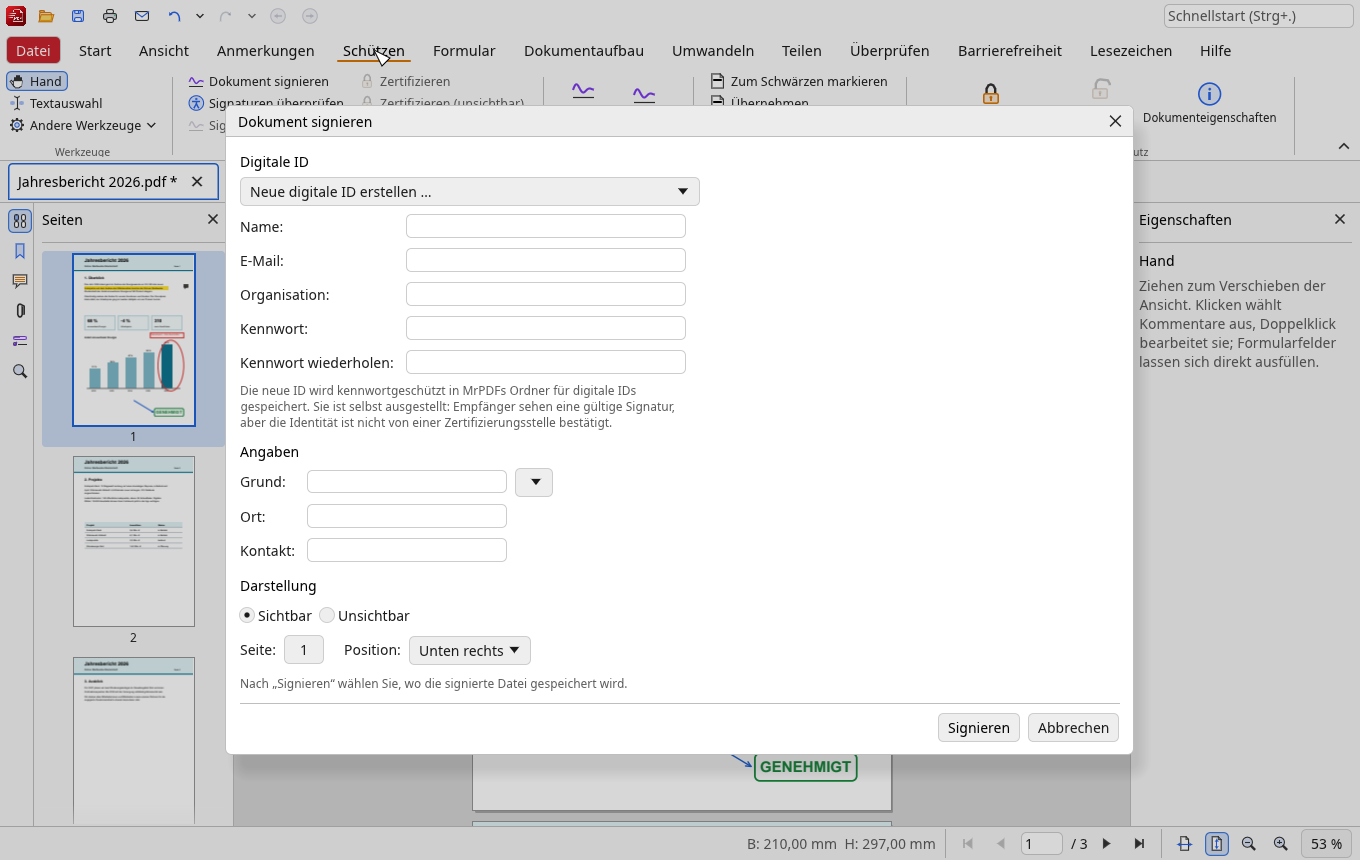
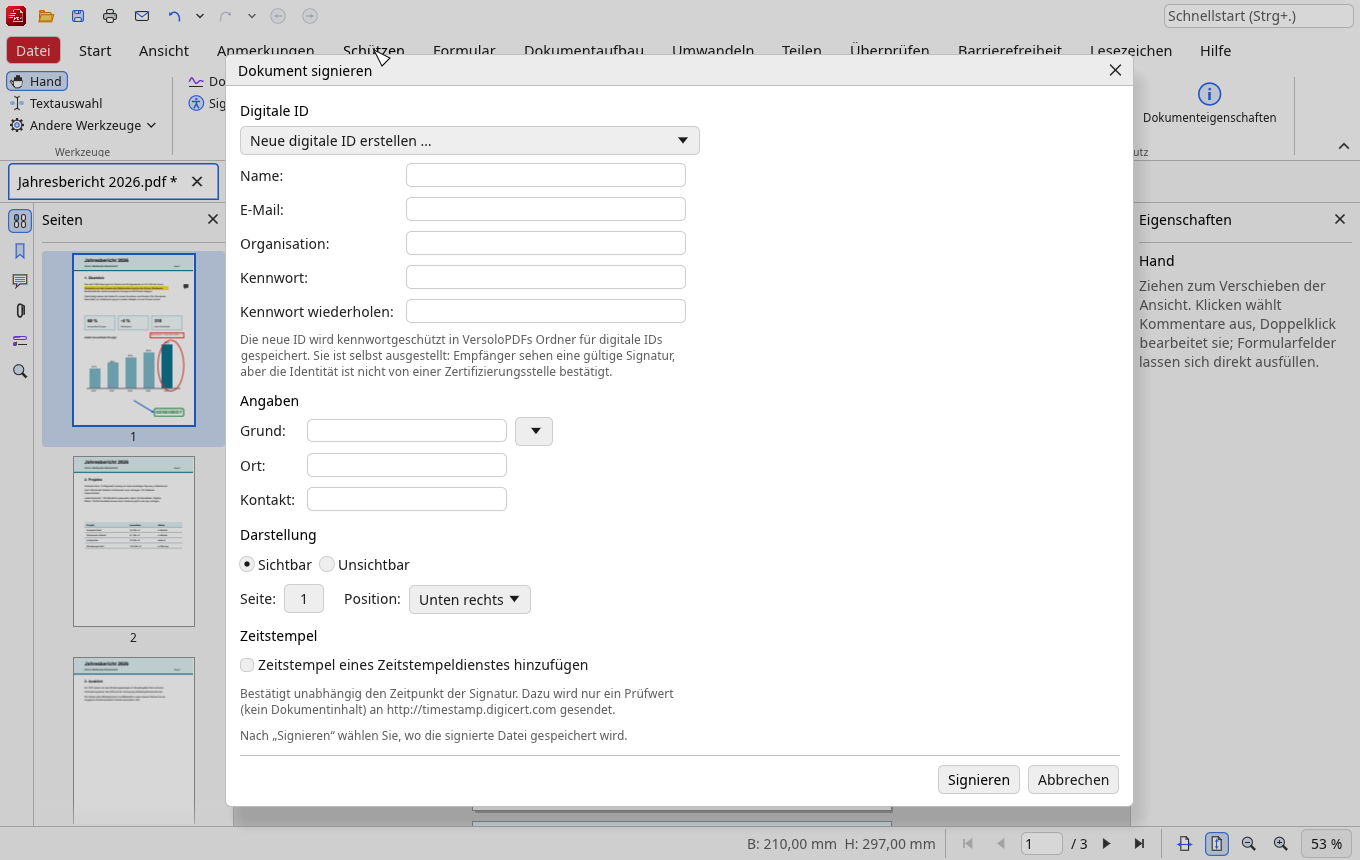
VersoloPDF 1.1.0: new name, certify, time stamps, QR code field, layers
- New name VersoloPDF (formerly MrPDF): crate, program, package, web site;
  data of the old name (settings, digital IDs, recovery copies, log) are
  moved over at the first start, old session files still open.
- Certify (DocMDP level 1-3, only as the first signature) and time stamps
  (RFC 3161): signature time stamps as unsigned attribute, document time
  stamps (ETSI.RFC3161), checked in "Check signatures"; time stamp
  authority and default in Settings > Signatures. Checked against a real
  authority (ignored test).
- Barcode form field: own QR code encoder (byte mode, level M, versions
  1-40), checked against the specification's Reed-Solomon example and an
  independent reader.
- Layers pane: lists optional content groups and switches them in the
  default view (undoable); read once per file state.
- Snapping to page objects, splitting pages at guides, read aloud in the
  Accessibility tab.
- Greyed-out placeholders and settings categories without function
  removed, together with the placeholder mechanism.
- Tests for all of it; web site pictures and texts updated.

Changed region(s): [[0.1544, 0.0605, 0.8338, 0.9372]]

diff --git a/index.html b/index.html
@@ -3,11 +3,11 @@
 <head>
 <meta charset="utf-8">
 <meta name="viewport" content="width=device-width, initial-scale=1">
-<title>MrPDF – der freie PDF-Editor</title>
-<meta name="description" content="MrPDF: freier, quelloffener PDF-Editor mit vertrautem Menüband. Ansehen, kommentieren, ausfüllen, signieren, organisieren – ohne Konto, ohne Cloud.">
-<meta property="og:title" content="MrPDF – der freie PDF-Editor">
+<title>VersoloPDF – der freie PDF-Editor</title>
+<meta name="description" content="VersoloPDF: freier, quelloffener PDF-Editor mit vertrautem Menüband. Ansehen, kommentieren, ausfüllen, signieren, organisieren – ohne Konto, ohne Cloud.">
+<meta property="og:title" content="VersoloPDF – der freie PDF-Editor">
 <meta property="og:description" content="Ansehen, kommentieren, ausfüllen, signieren und organisieren – quelloffen, ohne Konto, ohne Cloud.">
-<meta property="og:image" content="https://mrmarkus42.github.io/MrPDF/img/hero.png">
+<meta property="og:image" content="https://mrmarkus42.github.io/VersoloPDF/img/hero.png">
 <link rel="icon" type="image/png" href="img/logo.png">
 <style>
 :root {
@@ -139,12 +139,12 @@ footer a { color: var(--muted); }
 
 <nav>
   <div class="wrap">
-    <a class="logo" href="#top"><img src="img/logo.png" alt="">MrPDF</a>
+    <a class="logo" href="#top"><img src="img/logo.png" alt="">VersoloPDF</a>
     <div class="links">
       <a class="opt" href="#funktionen"><span lang="de">Funktionen</span><span lang="en">Features</span></a>
       <a class="opt" href="#download">Download</a>
       <a class="opt" href="#fragen"><span lang="de">Fragen</span><span lang="en">FAQ</span></a>
-      <a href="https://github.com/MrMarkus42/MrPDF">GitHub</a>
+      <a href="https://github.com/MrMarkus42/VersoloPDF">GitHub</a>
       <button class="lang" id="lang" type="button" aria-label="Sprache wechseln / switch language">EN</button>
     </div>
   </div>
@@ -154,25 +154,25 @@ footer a { color: var(--muted); }
   <div class="wrap">
     <h1><span lang="de">PDFs bearbeiten.<br><em>Frei.</em> Lokal. Vertraut.</span><span lang="en">Edit PDFs.<br><em>Free.</em> Local. Familiar.</span></h1>
     <p class="lead">
-      <span lang="de">MrPDF ist ein quelloffener PDF-Editor mit dem Menüband, das Sie aus Office-Programmen kennen. Ansehen, kommentieren, ausfüllen, signieren und Seiten organisieren – ohne Konto, ohne Abo, ohne Cloud.</span>
-      <span lang="en">MrPDF is an open-source PDF editor with the ribbon you know from office programs. View, comment, fill in, sign and organise pages – no account, no subscription, no cloud.</span>
+      <span lang="de">VersoloPDF ist ein quelloffener PDF-Editor mit dem Menüband, das Sie aus Office-Programmen kennen. Ansehen, kommentieren, ausfüllen, signieren und Seiten organisieren – ohne Konto, ohne Abo, ohne Cloud.</span>
+      <span lang="en">VersoloPDF is an open-source PDF editor with the ribbon you know from office programs. View, comment, fill in, sign and organise pages – no account, no subscription, no cloud.</span>
     </p>
     <div class="buttons">
-      <a class="btn primary" href="https://github.com/MrMarkus42/MrPDF/releases/latest">
+      <a class="btn primary" href="https://github.com/MrMarkus42/VersoloPDF/releases/latest">
         <svg viewBox="0 0 24 24" fill="none" stroke="currentColor" stroke-width="2" stroke-linecap="round" stroke-linejoin="round"><path d="M12 3v12m0 0l-5-5m5 5l5-5M4 19h16"/></svg>
         <span lang="de">Für Windows herunterladen</span><span lang="en">Download for Windows</span>
       </a>
-      <a class="btn ghost" href="https://github.com/MrMarkus42/MrPDF">
+      <a class="btn ghost" href="https://github.com/MrMarkus42/VersoloPDF">
         <span lang="de">Quellcode ansehen</span><span lang="en">View the source</span>
       </a>
     </div>
     <p class="note">
-      <span lang="de">Version 1.0 · Windows 10 und 11 (64 Bit) · keine Installation nötig · MIT/Apache-2.0</span>
-      <span lang="en">Version 1.0 · Windows 10 and 11 (64-bit) · no installation needed · MIT/Apache-2.0</span>
+      <span lang="de">Version 1.1 · Windows 10 und 11 (64 Bit) · keine Installation nötig · MIT/Apache-2.0</span>
+      <span lang="en">Version 1.1 · Windows 10 and 11 (64-bit) · no installation needed · MIT/Apache-2.0</span>
     </p>
     <div class="shot">
       <div class="bar"><i></i><i></i><i></i></div>
-      <img src="img/hero.png" width="1360" height="860" alt="MrPDF mit einem Jahresbericht, Kommentaren und dem Menüband">
+      <img src="img/hero.png" width="1360" height="860" alt="VersoloPDF mit einem Jahresbericht, Kommentaren und dem Menüband">
     </div>
   </div>
 </header>
@@ -192,10 +192,10 @@ footer a { color: var(--muted); }
         <p><span lang="de">Markieren, Notizen, Textfelder, Formen, Wolken, Freihand, Messen, Stempel – sichtbar in jedem PDF-Programm.</span><span lang="en">Highlights, notes, text boxes, shapes, clouds, freehand, measuring, stamps – visible in every PDF viewer.</span></p></div>
       <div class="card"><div class="icon"><svg viewBox="0 0 24 24"><rect x="4" y="3" width="16" height="18" rx="2"/><path d="M8 8h8M8 12h8M8 16h4"/></svg></div>
         <h3><span lang="de">Formulare</span><span lang="en">Forms</span></h3>
-        <p><span lang="de">Ausfüllen und selbst gestalten: Text, Auswahl, Liste, Datum, Bild, Schaltfläche, Signatur – auch automatisch erkannt.</span><span lang="en">Fill in and design: text, choice, list, date, image, button and signature fields – even detected automatically.</span></p></div>
+        <p><span lang="de">Ausfüllen und selbst gestalten: Text, Auswahl, Liste, Datum, Bild, Schaltfläche, QR-Code, Signatur – auch automatisch erkannt.</span><span lang="en">Fill in and design: text, choice, list, date, image, button, QR code and signature fields – even detected automatically.</span></p></div>
       <div class="card"><div class="icon red"><svg viewBox="0 0 24 24"><path d="M3 17c3-1 4-6 6-6s1 5 3 5 3-4 5-4 2 2 4 2"/><path d="M3 21h18"/></svg></div>
         <h3><span lang="de">Signieren</span><span lang="en">Sign</span></h3>
-        <p><span lang="de">Digitale Signaturen mit eigener digitaler ID, sichtbar oder unsichtbar – und Signaturen anderer prüfen.</span><span lang="en">Digital signatures with your own digital ID, visible or invisible – and check the signatures of others.</span></p></div>
+        <p><span lang="de">Digitale Signaturen mit eigener digitaler ID, Zertifizieren und Zeitstempel – und Signaturen anderer prüfen.</span><span lang="en">Digital signatures with your own digital ID, certification and time stamps – and check the signatures of others.</span></p></div>
       <div class="card"><div class="icon"><svg viewBox="0 0 24 24"><rect x="3" y="3" width="8" height="10" rx="1"/><rect x="13" y="3" width="8" height="10" rx="1"/><path d="M7 17v4M17 17v4M4 21h16"/></svg></div>
         <h3><span lang="de">Seiten organisieren</span><span lang="en">Organise pages</span></h3>
         <p><span lang="de">Einfügen, löschen, drehen, zuschneiden, zusammenfügen, aufteilen, Wasserzeichen, Kopf- und Fußzeilen, Bates-Nummern.</span><span lang="en">Insert, delete, rotate, crop, merge, split, watermarks, headers and footers, Bates numbering.</span></p></div>
@@ -218,14 +218,14 @@ footer a { color: var(--muted); }
       <div class="txt">
         <div class="kicker"><span lang="de">Kommentieren</span><span lang="en">Commenting</span></div>
         <h3><span lang="de">Anmerkungen, die überall gleich aussehen</span><span lang="en">Comments that look the same everywhere</span></h3>
-        <p><span lang="de">Markieren Sie Text, setzen Sie Notizen, Pfeile und Stempel. MrPDF schreibt zu jeder Anmerkung ihr eigenes Aussehen in die Datei – Ihre Kollegen sehen in jedem PDF-Programm genau das, was Sie sehen.</span><span lang="en">Highlight text, add notes, arrows and stamps. MrPDF writes each comment's own appearance into the file – your colleagues see exactly what you see, in any PDF viewer.</span></p>
+        <p><span lang="de">Markieren Sie Text, setzen Sie Notizen, Pfeile und Stempel. VersoloPDF schreibt zu jeder Anmerkung ihr eigenes Aussehen in die Datei – Ihre Kollegen sehen in jedem PDF-Programm genau das, was Sie sehen.</span><span lang="en">Highlight text, add notes, arrows and stamps. VersoloPDF writes each comment's own appearance into the file – your colleagues see exactly what you see, in any PDF viewer.</span></p>
         <ul>
           <li><span lang="de">Stilvorlagen und eigene Stempel</span><span lang="en">Style presets and your own stamps</span></li>
           <li><span lang="de">Kommentarliste, Zusammenfassung als PDF</span><span lang="en">Comment list, summary as PDF</span></li>
           <li><span lang="de">Austausch per XFDF</span><span lang="en">Exchange via XFDF</span></li>
         </ul>
       </div>
-      <div class="pic"><img src="img/comments.png" width="1360" height="860" loading="lazy" alt="Kommentare in MrPDF"></div>
+      <div class="pic"><img src="img/comments.png" width="1360" height="860" loading="lazy" alt="Kommentare in VersoloPDF"></div>
     </div>
 
     <div class="feature flip">
@@ -239,7 +239,7 @@ footer a { color: var(--muted); }
           <li><span lang="de">Formulardaten importieren und exportieren</span><span lang="en">Import and export form data</span></li>
         </ul>
       </div>
-      <div class="pic"><img src="img/forms.png" width="1360" height="860" loading="lazy" alt="Formular ausfüllen in MrPDF"></div>
+      <div class="pic"><img src="img/forms.png" width="1360" height="860" loading="lazy" alt="Formular ausfüllen in VersoloPDF"></div>
     </div>
 
     <div class="feature">
@@ -255,7 +255,7 @@ footer a { color: var(--muted); }
       <div class="txt">
         <div class="kicker"><span lang="de">Digitale Signatur</span><span lang="en">Digital signature</span></div>
         <h3><span lang="de">Unterschreiben ohne Ausdrucken</span><span lang="en">Sign without printing</span></h3>
-        <p><span lang="de">Signieren Sie mit Ihrer digitalen ID oder legen Sie in MrPDF eine neue an. Die Signatur nach PAdES-Standard schützt das Dokument vor unbemerkten Änderungen – und MrPDF zeigt beim Öffnen, ob eine Signatur noch gültig ist.</span><span lang="en">Sign with your digital ID or create a new one in MrPDF. The PAdES signature protects the document against unnoticed changes – and MrPDF shows on opening whether a signature is still valid.</span></p>
+        <p><span lang="de">Signieren Sie mit Ihrer digitalen ID oder legen Sie in VersoloPDF eine neue an. Die Signatur nach PAdES-Standard schützt das Dokument vor unbemerkten Änderungen. Ein Zeitstempel eines unabhängigen Dienstes belegt den Zeitpunkt, und beim Zertifizieren legen Sie fest, welche Änderungen danach noch erlaubt sind.</span><span lang="en">Sign with your digital ID or create a new one in VersoloPDF. The PAdES signature protects the document against unnoticed changes. A time stamp from an independent authority proves the time, and when certifying you decide which changes are still allowed afterwards.</span></p>
       </div>
       <div class="pic"><img src="img/sign.png" width="1360" height="860" loading="lazy" alt="Dokument signieren"></div>
     </div>
@@ -266,7 +266,7 @@ footer a { color: var(--muted); }
         <h3><span lang="de">Hell oder dunkel, Deutsch oder Englisch</span><span lang="en">Light or dark, German or English</span></h3>
         <p><span lang="de">Ein ruhiges, modernes Menüband mit fester Höhe, das sich auf Wunsch einklappen lässt. Dazu Dunkelmodus, Tastaturbedienung mit Alt-Tasten und eine Schnellsuche für jeden Befehl.</span><span lang="en">A calm, modern ribbon with a fixed height that can be collapsed. Plus dark mode, keyboard operation with Alt key tips and a quick search for every command.</span></p>
       </div>
-      <div class="pic"><img src="img/dark-english.png" width="1360" height="860" loading="lazy" alt="MrPDF im Dunkelmodus"></div>
+      <div class="pic"><img src="img/dark-english.png" width="1360" height="860" loading="lazy" alt="VersoloPDF im Dunkelmodus"></div>
     </div>
   </div>
 </section>
@@ -274,7 +274,7 @@ footer a { color: var(--muted); }
 <section>
   <div class="wrap">
     <div class="center">
-      <h2><span lang="de">Warum MrPDF?</span><span lang="en">Why MrPDF?</span></h2>
+      <h2><span lang="de">Warum VersoloPDF?</span><span lang="en">Why VersoloPDF?</span></h2>
       <p class="sub"><span lang="de">Ein PDF-Editor, der Ihnen gehört – nicht umgekehrt.</span><span lang="en">A PDF editor that works for you – not the other way round.</span></p>
     </div>
     <div class="values">
@@ -297,21 +297,21 @@ footer a { color: var(--muted); }
 <section class="soft" id="download">
   <div class="wrap">
     <h2><span lang="de">In drei Schritten loslegen</span><span lang="en">Get started in three steps</span></h2>
-    <p class="sub"><span lang="de">MrPDF braucht keine Installation und keine Administratorrechte.</span><span lang="en">MrPDF needs no installation and no administrator rights.</span></p>
+    <p class="sub"><span lang="de">VersoloPDF braucht keine Installation und keine Administratorrechte.</span><span lang="en">VersoloPDF needs no installation and no administrator rights.</span></p>
     <ol class="steps">
       <li><b><span lang="de">Herunterladen</span><span lang="en">Download</span></b><br>
-        <span lang="de">Die Zip-Datei <code>MrPDF-…-windows-x64.zip</code> aus dem <a href="https://github.com/MrMarkus42/MrPDF/releases/latest">neuesten Release</a> laden.</span>
-        <span lang="en">Get <code>MrPDF-…-windows-x64.zip</code> from the <a href="https://github.com/MrMarkus42/MrPDF/releases/latest">latest release</a>.</span></li>
+        <span lang="de">Die Zip-Datei <code>VersoloPDF-…-windows-x64.zip</code> aus dem <a href="https://github.com/MrMarkus42/VersoloPDF/releases/latest">neuesten Release</a> laden.</span>
+        <span lang="en">Get <code>VersoloPDF-…-windows-x64.zip</code> from the <a href="https://github.com/MrMarkus42/VersoloPDF/releases/latest">latest release</a>.</span></li>
       <li><b><span lang="de">Entpacken</span><span lang="en">Unpack</span></b><br>
-        <span lang="de">In einen Ordner Ihrer Wahl, zum Beispiel <code>Dokumente\MrPDF</code>.</span>
-        <span lang="en">Into a folder of your choice, e.g. <code>Documents\MrPDF</code>.</span></li>
+        <span lang="de">In einen Ordner Ihrer Wahl, zum Beispiel <code>Dokumente\VersoloPDF</code>.</span>
+        <span lang="en">Into a folder of your choice, e.g. <code>Documents\VersoloPDF</code>.</span></li>
       <li><b><span lang="de">Starten</span><span lang="en">Start</span></b><br>
-        <span lang="de"><code>MrPDF.exe</code> öffnen – fertig. Neue Versionen installiert MrPDF später selbst.</span>
-        <span lang="en">Open <code>MrPDF.exe</code> – done. MrPDF installs new versions by itself later.</span></li>
+        <span lang="de"><code>VersoloPDF.exe</code> öffnen – fertig. Neue Versionen installiert VersoloPDF später selbst.</span>
+        <span lang="en">Open <code>VersoloPDF.exe</code> – done. VersoloPDF installs new versions by itself later.</span></li>
     </ol>
     <p class="req">
-      <span lang="de"><b>Voraussetzungen:</b> Windows 10 oder 11, 64 Bit. Bleibt das Fenster auf alten Grafikkarten schwarz, hilft der Start mit <code>MrPDF.exe --opengl</code>. Linux und macOS: aus dem Quellcode bauen (siehe <a href="https://github.com/MrMarkus42/MrPDF#building-from-source">Anleitung</a>).</span>
-      <span lang="en"><b>Requirements:</b> Windows 10 or 11, 64-bit. If the window stays black on old graphics cards, start <code>MrPDF.exe --opengl</code>. Linux and macOS: build from source (see the <a href="https://github.com/MrMarkus42/MrPDF#building-from-source">instructions</a>).</span>
+      <span lang="de"><b>Voraussetzungen:</b> Windows 10 oder 11, 64 Bit. Bleibt das Fenster auf alten Grafikkarten schwarz, hilft der Start mit <code>VersoloPDF.exe --opengl</code>. Linux und macOS: aus dem Quellcode bauen (siehe <a href="https://github.com/MrMarkus42/VersoloPDF#building-from-source">Anleitung</a>).</span>
+      <span lang="en"><b>Requirements:</b> Windows 10 or 11, 64-bit. If the window stays black on old graphics cards, start <code>VersoloPDF.exe --opengl</code>. Linux and macOS: build from source (see the <a href="https://github.com/MrMarkus42/VersoloPDF#building-from-source">instructions</a>).</span>
     </p>
   </div>
 </section>
@@ -320,16 +320,16 @@ footer a { color: var(--muted); }
   <div class="wrap">
     <h2><span lang="de">Häufige Fragen</span><span lang="en">Frequently asked questions</span></h2>
     <p class="sub"></p>
-    <details><summary><span lang="de">Ist MrPDF wirklich kostenlos?</span><span lang="en">Is MrPDF really free?</span></summary>
-      <p><span lang="de">Ja – für private und berufliche Zwecke, ohne Einschränkungen. MrPDF ist freie Software unter MIT- oder Apache-2.0-Lizenz.</span><span lang="en">Yes – for private and business use, without restrictions. MrPDF is free software under the MIT or Apache 2.0 licence.</span></p></details>
+    <details><summary><span lang="de">Ist VersoloPDF wirklich kostenlos?</span><span lang="en">Is VersoloPDF really free?</span></summary>
+      <p><span lang="de">Ja – für private und berufliche Zwecke, ohne Einschränkungen. VersoloPDF ist freie Software unter MIT- oder Apache-2.0-Lizenz.</span><span lang="en">Yes – for private and business use, without restrictions. VersoloPDF is free software under the MIT or Apache 2.0 licence.</span></p></details>
     <details><summary><span lang="de">Werden meine Dokumente irgendwohin hochgeladen?</span><span lang="en">Are my documents uploaded anywhere?</span></summary>
-      <p><span lang="de">Nein. MrPDF arbeitet nur mit Dateien auf Ihrem Computer. Ins Internet geht es nur, wenn Sie selbst eine Adresse öffnen oder nach neuen Versionen gesucht wird – und das lässt sich unter Datei › Einstellungen › Neue Version abschalten.</span><span lang="en">No. MrPDF only works with files on your computer. It only goes online when you open an address yourself or when it looks for new versions – which you can switch off in File › Settings › Updates.</span></p></details>
+      <p><span lang="de">Nein. VersoloPDF arbeitet nur mit Dateien auf Ihrem Computer. Ins Internet geht es nur, wenn Sie selbst eine Adresse öffnen oder nach neuen Versionen gesucht wird – und das lässt sich unter Datei › Einstellungen › Neue Version abschalten.</span><span lang="en">No. VersoloPDF only works with files on your computer. It only goes online when you open an address yourself or when it looks for new versions – which you can switch off in File › Settings › Updates.</span></p></details>
     <details><summary><span lang="de">Sehen meine Kommentare auch in anderen Programmen richtig aus?</span><span lang="en">Do my comments look right in other programs?</span></summary>
       <p><span lang="de">Ja. Jede Anmerkung und jedes Formularfeld wird mit eigenem Aussehen gespeichert. Änderungen werden als Ergänzung an die Datei angehängt, die ursprüngliche Struktur bleibt erhalten.</span><span lang="en">Yes. Every comment and form field is saved with its own appearance. Changes are appended to the file, the original structure is kept.</span></p></details>
     <details><summary><span lang="de">Wie bekomme ich neue Versionen?</span><span lang="en">How do I get new versions?</span></summary>
-      <p><span lang="de">Unter Datei › Einstellungen › Neue Version. MrPDF lädt das Paket von GitHub, prüft seine SHA-256-Prüfsumme, installiert es und startet neu.</span><span lang="en">In File › Settings › Updates. MrPDF downloads the package from GitHub, checks its SHA-256 checksum, installs it and restarts.</span></p></details>
+      <p><span lang="de">Unter Datei › Einstellungen › Neue Version. VersoloPDF lädt das Paket von GitHub, prüft seine SHA-256-Prüfsumme, installiert es und startet neu.</span><span lang="en">In File › Settings › Updates. VersoloPDF downloads the package from GitHub, checks its SHA-256 checksum, installs it and restarts.</span></p></details>
     <details><summary><span lang="de">Ich habe einen Fehler gefunden – was tun?</span><span lang="en">I found a bug – what now?</span></summary>
-      <p><span lang="de">Melden Sie ihn gern als <a href="https://github.com/MrMarkus42/MrPDF/issues">Issue auf GitHub</a>. Hilfe › Fehlerprotokoll öffnen zeigt ein Protokoll, das bei der Suche hilft; es enthält keine Inhalte Ihrer Dokumente.</span><span lang="en">Please report it as an <a href="https://github.com/MrMarkus42/MrPDF/issues">issue on GitHub</a>. Help › Open error log shows a log that helps finding it; it contains nothing of your documents.</span></p></details>
+      <p><span lang="de">Melden Sie ihn gern als <a href="https://github.com/MrMarkus42/VersoloPDF/issues">Issue auf GitHub</a>. Hilfe › Fehlerprotokoll öffnen zeigt ein Protokoll, das bei der Suche hilft; es enthält keine Inhalte Ihrer Dokumente.</span><span lang="en">Please report it as an <a href="https://github.com/MrMarkus42/VersoloPDF/issues">issue on GitHub</a>. Help › Open error log shows a log that helps finding it; it contains nothing of your documents.</span></p></details>
   </div>
 </section>
 
@@ -339,9 +339,9 @@ footer a { color: var(--muted); }
       <h2><span lang="de">Bereit für Ihren neuen PDF-Editor?</span><span lang="en">Ready for your new PDF editor?</span></h2>
       <p><span lang="de">Kostenlos, quelloffen und in einer Minute startklar.</span><span lang="en">Free, open source and ready in a minute.</span></p>
       <div class="buttons">
-        <a class="btn primary" href="https://github.com/MrMarkus42/MrPDF/releases/latest">
+        <a class="btn primary" href="https://github.com/MrMarkus42/VersoloPDF/releases/latest">
           <svg viewBox="0 0 24 24" fill="none" stroke="currentColor" stroke-width="2" stroke-linecap="round" stroke-linejoin="round"><path d="M12 3v12m0 0l-5-5m5 5l5-5M4 19h16"/></svg>
-          <span lang="de">MrPDF 1.0 herunterladen</span><span lang="en">Download MrPDF 1.0</span>
+          <span lang="de">VersoloPDF herunterladen</span><span lang="en">Download VersoloPDF</span>
         </a>
       </div>
     </div>
@@ -350,9 +350,9 @@ footer a { color: var(--muted); }
 
 <footer>
   <div class="wrap">
-    <span>© 2026 Mr. M <span lang="de">und Mitwirkende</span><span lang="en">and contributors</span> · <a href="https://github.com/MrMarkus42/MrPDF/blob/master/LICENSE-MIT">MIT</a> / <a href="https://github.com/MrMarkus42/MrPDF/blob/master/LICENSE-APACHE">Apache-2.0</a></span>
-    <span><a href="https://github.com/MrMarkus42/MrPDF/blob/master/CHANGELOG.md"><span lang="de">Neuerungen</span><span lang="en">Changelog</span></a> · <a href="https://github.com/MrMarkus42/MrPDF/blob/master/SECURITY.md"><span lang="de">Sicherheit</span><span lang="en">Security</span></a></span>
-    <span><span lang="de">MrPDF ist ein unabhängiges Projekt und nicht mit Herstellern kommerzieller PDF-Software verbunden.</span><span lang="en">MrPDF is an independent project, not affiliated with any commercial PDF software vendor.</span></span>
+    <span>© 2026 Mr. M <span lang="de">und Mitwirkende</span><span lang="en">and contributors</span> · <a href="https://github.com/MrMarkus42/VersoloPDF/blob/master/LICENSE-MIT">MIT</a> / <a href="https://github.com/MrMarkus42/VersoloPDF/blob/master/LICENSE-APACHE">Apache-2.0</a></span>
+    <span><a href="https://github.com/MrMarkus42/VersoloPDF/blob/master/CHANGELOG.md"><span lang="de">Neuerungen</span><span lang="en">Changelog</span></a> · <a href="https://github.com/MrMarkus42/VersoloPDF/blob/master/SECURITY.md"><span lang="de">Sicherheit</span><span lang="en">Security</span></a></span>
+    <span><span lang="de">VersoloPDF ist ein unabhängiges Projekt und nicht mit Herstellern kommerzieller PDF-Software verbunden.</span><span lang="en">VersoloPDF is an independent project, not affiliated with any commercial PDF software vendor.</span></span>
   </div>
 </footer>
 
@@ -363,11 +363,11 @@ footer a { color: var(--muted); }
     root.setAttribute('data-lang', lang);
     root.setAttribute('lang', lang);
     button.textContent = lang === 'de' ? 'EN' : 'DE';
-    document.title = lang === 'de' ? 'MrPDF – der freie PDF-Editor' : 'MrPDF – the free PDF editor';
-    try { localStorage.setItem('mrpdf-lang', lang); } catch (e) {}
+    document.title = lang === 'de' ? 'VersoloPDF – der freie PDF-Editor' : 'VersoloPDF – the free PDF editor';
+    try { localStorage.setItem('versolopdf-lang', lang); } catch (e) {}
   }
   var saved = null;
-  try { saved = localStorage.getItem('mrpdf-lang'); } catch (e) {}
+  try { saved = localStorage.getItem('versolopdf-lang'); } catch (e) {}
   var nav = (navigator.language || 'de').toLowerCase();
   set(saved || (nav.indexOf('de') === 0 ? 'de' : 'en'));
   button.addEventListener('click', function () { set(root.getAttribute('data-lang') === 'de' ? 'en' : 'de'); });
